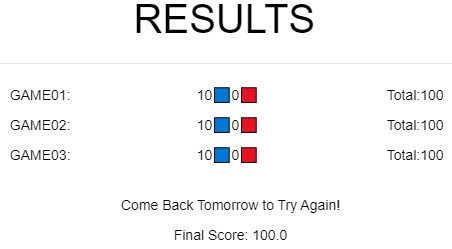
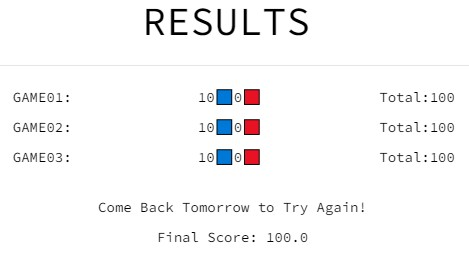
How to play images
Fixed for new text and made bigger boxes

diff --git a/app/static/css/stylesheet.css b/app/static/css/stylesheet.css
@@ -193,12 +193,12 @@ strong {
 
 /* GRID STYLING */
 .grid-container {
-    max-width: 1600px;
-    max-height: 1600px;
+    max-width: 1800px;
+    max-height: 1800px;
     margin: 0 auto;
     display: grid;
     justify-content: center;
-    grid-template-columns: 20% 20%;
+    grid-template-columns: 25% 25%;
     background-color: #2d394d;
     padding: 10px;
     gap: 50px;
